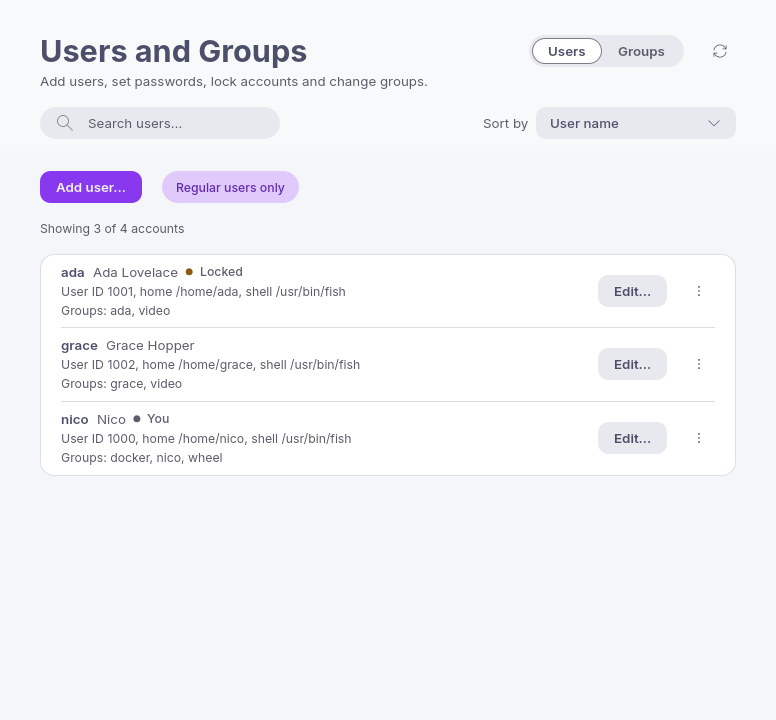
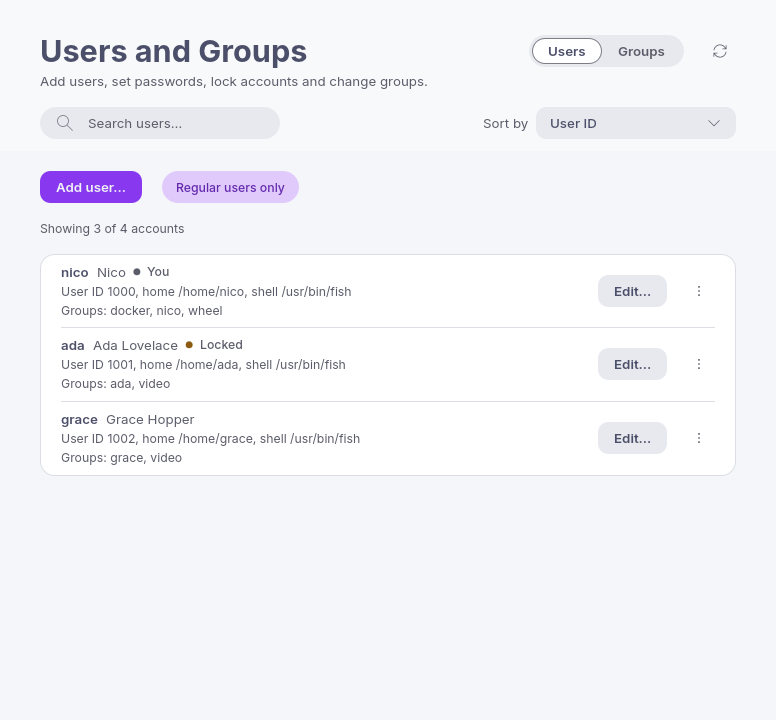
feat(users): list users by uid and groups by gid
The page opens on the id order, users list and groups list print it.

Changed region(s): [[0.0619, 0.3667, 0.4639, 0.55], [0.0928, 0.5806, 0.4639, 0.6417], [0.7423, 0.1528, 0.8041, 0.1833]]

diff --git a/crates/commands/src/lists/tests.rs b/crates/commands/src/lists/tests.rs
@@ -1,12 +1,15 @@
+use std::collections::BTreeSet;
+
 use toolbox_catalog::ToggleCatalog;
 use toolbox_cli::args::TogglePage;
 use toolbox_core::Snapshot;
 use toolbox_core::domains::{Accounts, Group, InstalledPackages, User};
+use toolbox_core::features::kernels::view::BootMenus;
 use toolbox_core::features::locales::{SupportedLocales, parse_supported};
 use toolbox_core::features::services::{ActiveState, FileState, UnitInfo};
 use toolbox_plan::{GroupName, PackageName, UnitName, UserName};
 
-use super::{UserRow, groups, locales, people, services, toggles, users};
+use super::{UserRow, groups, kernels, locales, people, services, toggles, users};
 
 const CATALOG: &str = r#"
 [[section]]
@@ -244,4 +247,84 @@ fn a_locale_row_as_json_has_the_name_the_commands_take() {
 
     assert_eq!(row("de_DE.UTF-8")["charset"], "UTF-8");
     assert_eq!(row("de_DE@euro")["charset"], "ISO-8859-15");
+}
+
+#[test]
+fn users_and_groups_are_listed_by_id() {
+    let mut snapshot = Snapshot::default();
+    let user = |name: &str, uid: u32| User {
+        name: UserName::new(name).unwrap(),
+        uid,
+        gid: uid,
+        gecos: toolbox_text::plain(""),
+        home: format!("/home/{name}"),
+        shell: "/bin/bash".to_owned(),
+    };
+
+    let group = |name: &str, gid: u32| Group {
+        name: GroupName::new(name).unwrap(),
+        gid,
+        members: BTreeSet::new(),
+    };
+
+    snapshot.insert(Accounts {
+        users: vec![user("ada", 1001), user("root", 0), user("http", 33)],
+        groups: vec![group("wheel", 998), group("root", 0), group("ada", 1001)],
+    });
+
+    let uids: Vec<u32> = users(&snapshot)
+        .unwrap()
+        .iter()
+        .map(|row| row.uid)
+        .collect();
+
+    let gids: Vec<u32> = groups(&snapshot)
+        .unwrap()
+        .iter()
+        .map(|row| row.gid)
+        .collect();
+
+    assert_eq!(uids, [0, 33, 1001]);
+    assert_eq!(gids, [0, 998, 1001]);
+}
+
+#[test]
+fn kernels_mark_the_kernel_the_grub_menu_starts() {
+    let mut snapshot = toolbox_core::testing::features::kernels::system();
+    let text = toolbox_plan::testing::grub::LIMA_DEFAULT_GRUB.replacen(
+        "GRUB_DEFAULT=0",
+        "GRUB_DEFAULT='gnulinux-advanced-cd2fff21-4bb7-40f3-a158-406f545e11e6>gnulinux-linux-lts-advanced-cd2fff21-4bb7-40f3-a158-406f545e11e6'",
+        1,
+    );
+    snapshot.insert(toolbox_core::domains::CurrentGrub(
+        toolbox_plan::GrubState::read(&text),
+    ));
+    let menu = toolbox_plan::GrubMenu::for_platform(
+        toolbox_plan::testing::grub::LIMA_GRUB_CFG,
+        toolbox_plan::GrubPlatform::Efi,
+    );
+
+    let rows = kernels(
+        &snapshot,
+        BootMenus {
+            grub: Some(&menu),
+            sdboot: None,
+        },
+    )
+    .unwrap();
+    let marked: Vec<&str> = rows
+        .iter()
+        .filter(|row| row.default)
+        .map(|row| row.name.as_str())
+        .collect();
+
+    assert_eq!(marked, ["linux-lts"]);
+}
+
+#[test]
+fn kernels_mark_no_default_without_a_read_menu() {
+    let snapshot = toolbox_core::testing::features::kernels::system();
+    let rows = kernels(&snapshot, BootMenus::default()).unwrap();
+
+    assert!(rows.iter().all(|row| !row.default));
 }

diff --git a/app/gui/src/pages/users/tests/rows.rs b/app/gui/src/pages/users/tests/rows.rs
@@ -3,7 +3,7 @@ use egui::accesskit::Role;
 use egui_kittest::kittest::Queryable as _;
 use toolbox_core::Queued;
 use toolbox_core::domains::{Accounts, NewGroups, RemovedUsers};
-use toolbox_core::features::users::listing::GroupOrder;
+use toolbox_core::features::users::listing::{GroupOrder, UserOrder};
 use toolbox_core::features::users::run::PageRun;
 use toolbox_core::testing::Queue as _;
 use toolbox_plan::HomeFolder;
@@ -38,6 +38,7 @@ fn a_frame_with_the_same_inputs_builds_no_user_rows() {
 #[test]
 fn return_on_a_row_queued_for_removal_opens_no_edit() {
     let mut harness = page(unlocked());
+    harness.state_mut().page.shown.user_order = UserOrder::Name;
     let state = harness.state_mut();
     let snapshot = std::sync::Arc::clone(&state.fixture.snapshot);
     state
@@ -60,6 +61,8 @@ fn return_on_a_row_queued_for_removal_opens_no_edit() {
 #[test]
 fn return_on_a_row_opens_edit() {
     let mut harness = page(unlocked());
+    harness.state_mut().page.shown.user_order = UserOrder::Name;
+    harness.run();
     harness
         .get_by_role_and_label(Role::ListItem, "ada, Ada Lovelace")
         .focus();
@@ -83,7 +86,7 @@ fn a_frame_with_the_same_inputs_builds_no_group_rows() {
     harness.step();
     assert_eq!(harness.state().page.groups.builds(), built);
 
-    harness.state_mut().page.shown.group_order = GroupOrder::Id;
+    harness.state_mut().page.shown.group_order = GroupOrder::Name;
     harness.run();
     assert_eq!(harness.state().page.groups.builds(), built + 1);
 
@@ -101,6 +104,8 @@ fn a_frame_with_the_same_inputs_builds_no_group_rows() {
 #[test]
 fn the_keyboard_hint_shows_while_a_row_has_the_focus() {
     let mut harness = page(unlocked());
+    harness.state_mut().page.shown.user_order = UserOrder::Name;
+    harness.run();
     let hint = "Arrow keys pick an account. Return edits it, the Menu key opens its other actions.";
     assert!(harness.query_by_label(hint).is_none());
 

diff --git a/crates/core/src/features/users/view/tests.rs b/crates/core/src/features/users/view/tests.rs
@@ -5,7 +5,7 @@ use super::{
     users,
 };
 use crate::domains::{Accounts, AvailableShells};
-use crate::features::users::listing::{GroupOrder, UserOrder};
+use crate::features::users::listing::GroupOrder;
 use crate::features::users::{add_group, set_full_name, set_shell};
 use crate::test_support::{group, group_name, user, user_name};
 use crate::{ChangeSet, Snapshot};
@@ -45,19 +45,16 @@ fn names(snapshot: &Snapshot, changes: &ChangeSet, shown: &Shown) -> Vec<String>
 }
 
 #[test]
-fn the_page_opens_on_people_by_name_and_can_show_every_account() {
+fn the_page_opens_on_people_by_id_and_can_show_every_account() {
     let snapshot = snapshot();
     let changes = ChangeSet::default();
 
     assert_eq!(
         names(&snapshot, &changes, &Shown::people()),
-        ["ada", "nico"]
+        ["nico", "ada"]
     );
 
-    let every = Shown {
-        user_order: UserOrder::Id,
-        ..Shown::default()
-    };
+    let every = Shown::default();
 
     assert_eq!(names(&snapshot, &changes, &every), ["http", "nico", "ada"]);
 }

diff --git a/crates/core/src/features/users/listing.rs b/crates/core/src/features/users/listing.rs
@@ -12,8 +12,8 @@ use crate::features::search::{Needle, Searchable, folded};
 #[derive(Clone, Copy, Debug, Default, PartialEq, Eq, strum::IntoStaticStr)]
 #[strum(serialize_all = "kebab-case")]
 pub enum UserOrder {
-    #[default]
     Name,
+    #[default]
     Id,
     FullName,
     Home,
@@ -23,8 +23,8 @@ pub enum UserOrder {
 #[derive(Clone, Copy, Debug, Default, PartialEq, Eq, strum::IntoStaticStr)]
 #[strum(serialize_all = "kebab-case")]
 pub enum GroupOrder {
-    #[default]
     Name,
+    #[default]
     Id,
     Members,
 }

diff --git a/crates/core/src/features/users/tests/listing.rs b/crates/core/src/features/users/tests/listing.rs
@@ -174,3 +174,9 @@ fn the_group_picker_finds_names_only_and_leaves_out_queued_groups() {
     assert_eq!(names("cra"), Vec::<String>::new());
     assert_eq!(names("").len(), 6);
 }
+
+#[test]
+fn both_lists_open_sorted_by_id() {
+    assert_eq!(UserOrder::default(), UserOrder::Id);
+    assert_eq!(GroupOrder::default(), GroupOrder::Id);
+}
